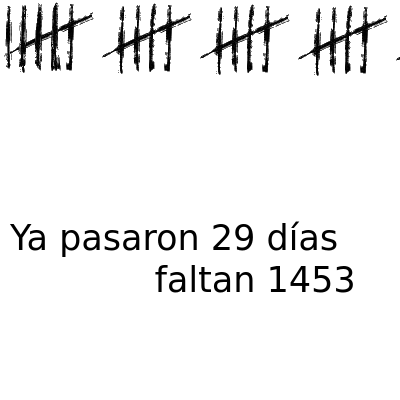
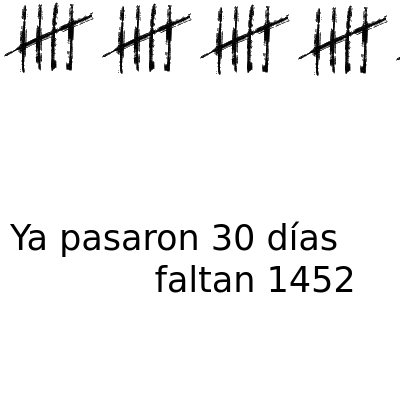
deploy: 28882f26f23b9f53dac6c4991168e610486d0e44

Changed region(s): [[0.0, 0.0, 0.15, 0.18], [0.84, 0.66, 0.9, 0.75], [0.54, 0.57, 0.63, 0.63]]

diff --git a/index.html b/index.html
@@ -3,19 +3,19 @@
   <head>
     <meta charset='utf-8'>
     <meta http-equiv='X-UA-Compatible' content='IE=edge'>
-    <title>Ya pasaron 29 días y faltan 1453</title>
-    <meta name="description" content="Ya pasaron 29 días y faltan 1453">
-    <meta itemprop="name" content="Ya pasaron 29 días y faltan 1453">
-    <meta itemprop="description" content="Ya pasaron 29 días y faltan 1453">
+    <title>Ya pasaron 30 días y faltan 1452</title>
+    <meta name="description" content="Ya pasaron 30 días y faltan 1452">
+    <meta itemprop="name" content="Ya pasaron 30 días y faltan 1452">
+    <meta itemprop="description" content="Ya pasaron 30 días y faltan 1452">
     <meta name="twitter:card" content="summary">
-    <meta name="twitter:title" content="Ya pasaron 29 días y faltan 1453">
-    <meta name="twitter:description" content="Ya pasaron 29 días y faltan 1453">
+    <meta name="twitter:title" content="Ya pasaron 30 días y faltan 1452">
+    <meta name="twitter:description" content="Ya pasaron 30 días y faltan 1452">
     <meta name="twitter:creator" content="@FloriusWasTaken">
     <meta name="twitter:image" content="https://pasaron.meme.ar/capture.png">
-    <meta property="og:title" content="Ya pasaron 29 días y faltan 1453">
-    <meta property="og:description" content="Ya pasaron 29 días y faltan 1453">
+    <meta property="og:title" content="Ya pasaron 30 días y faltan 1452">
+    <meta property="og:description" content="Ya pasaron 30 días y faltan 1452">
     <meta property="og:url" content="https://pasaron.meme.ar">
-    <meta property="og:site_name" content="Ya pasaron 29 días y faltan 1453">
+    <meta property="og:site_name" content="Ya pasaron 30 días y faltan 1452">
     <meta property="og:type" content="website">
     <meta property="og:image" content="https://pasaron.meme.ar/capture.png">
     <meta name="theme-color" content="#dc143c">
@@ -69,18 +69,16 @@
         padding: 0;
       }
     </style>
-    <title>Ya pasaron 29 días y faltan 1453</title>
+    <title>Ya pasaron 30 días y faltan 1452</title>
   </head>
   <body>
     <div id="main">
-      <img src="img/5.png"/><img src="img/5.png"/><img src="img/5.png"/><img src="img/5.png"/><img src="img/5.png"/>
-      
-        <img src="img/4.png"/>
+      <img src="img/5.png"/><img src="img/5.png"/><img src="img/5.png"/><img src="img/5.png"/><img src="img/5.png"/><img src="img/5.png"/>
       
     </div>
     <footer id="footer">
       <marquee id="marquee" class="is-vertical-align">
-        Ya pasaron 29 días y faltan 1453
+        Ya pasaron 30 días y faltan 1452
       </marquee>
       <ul>
         <li>
